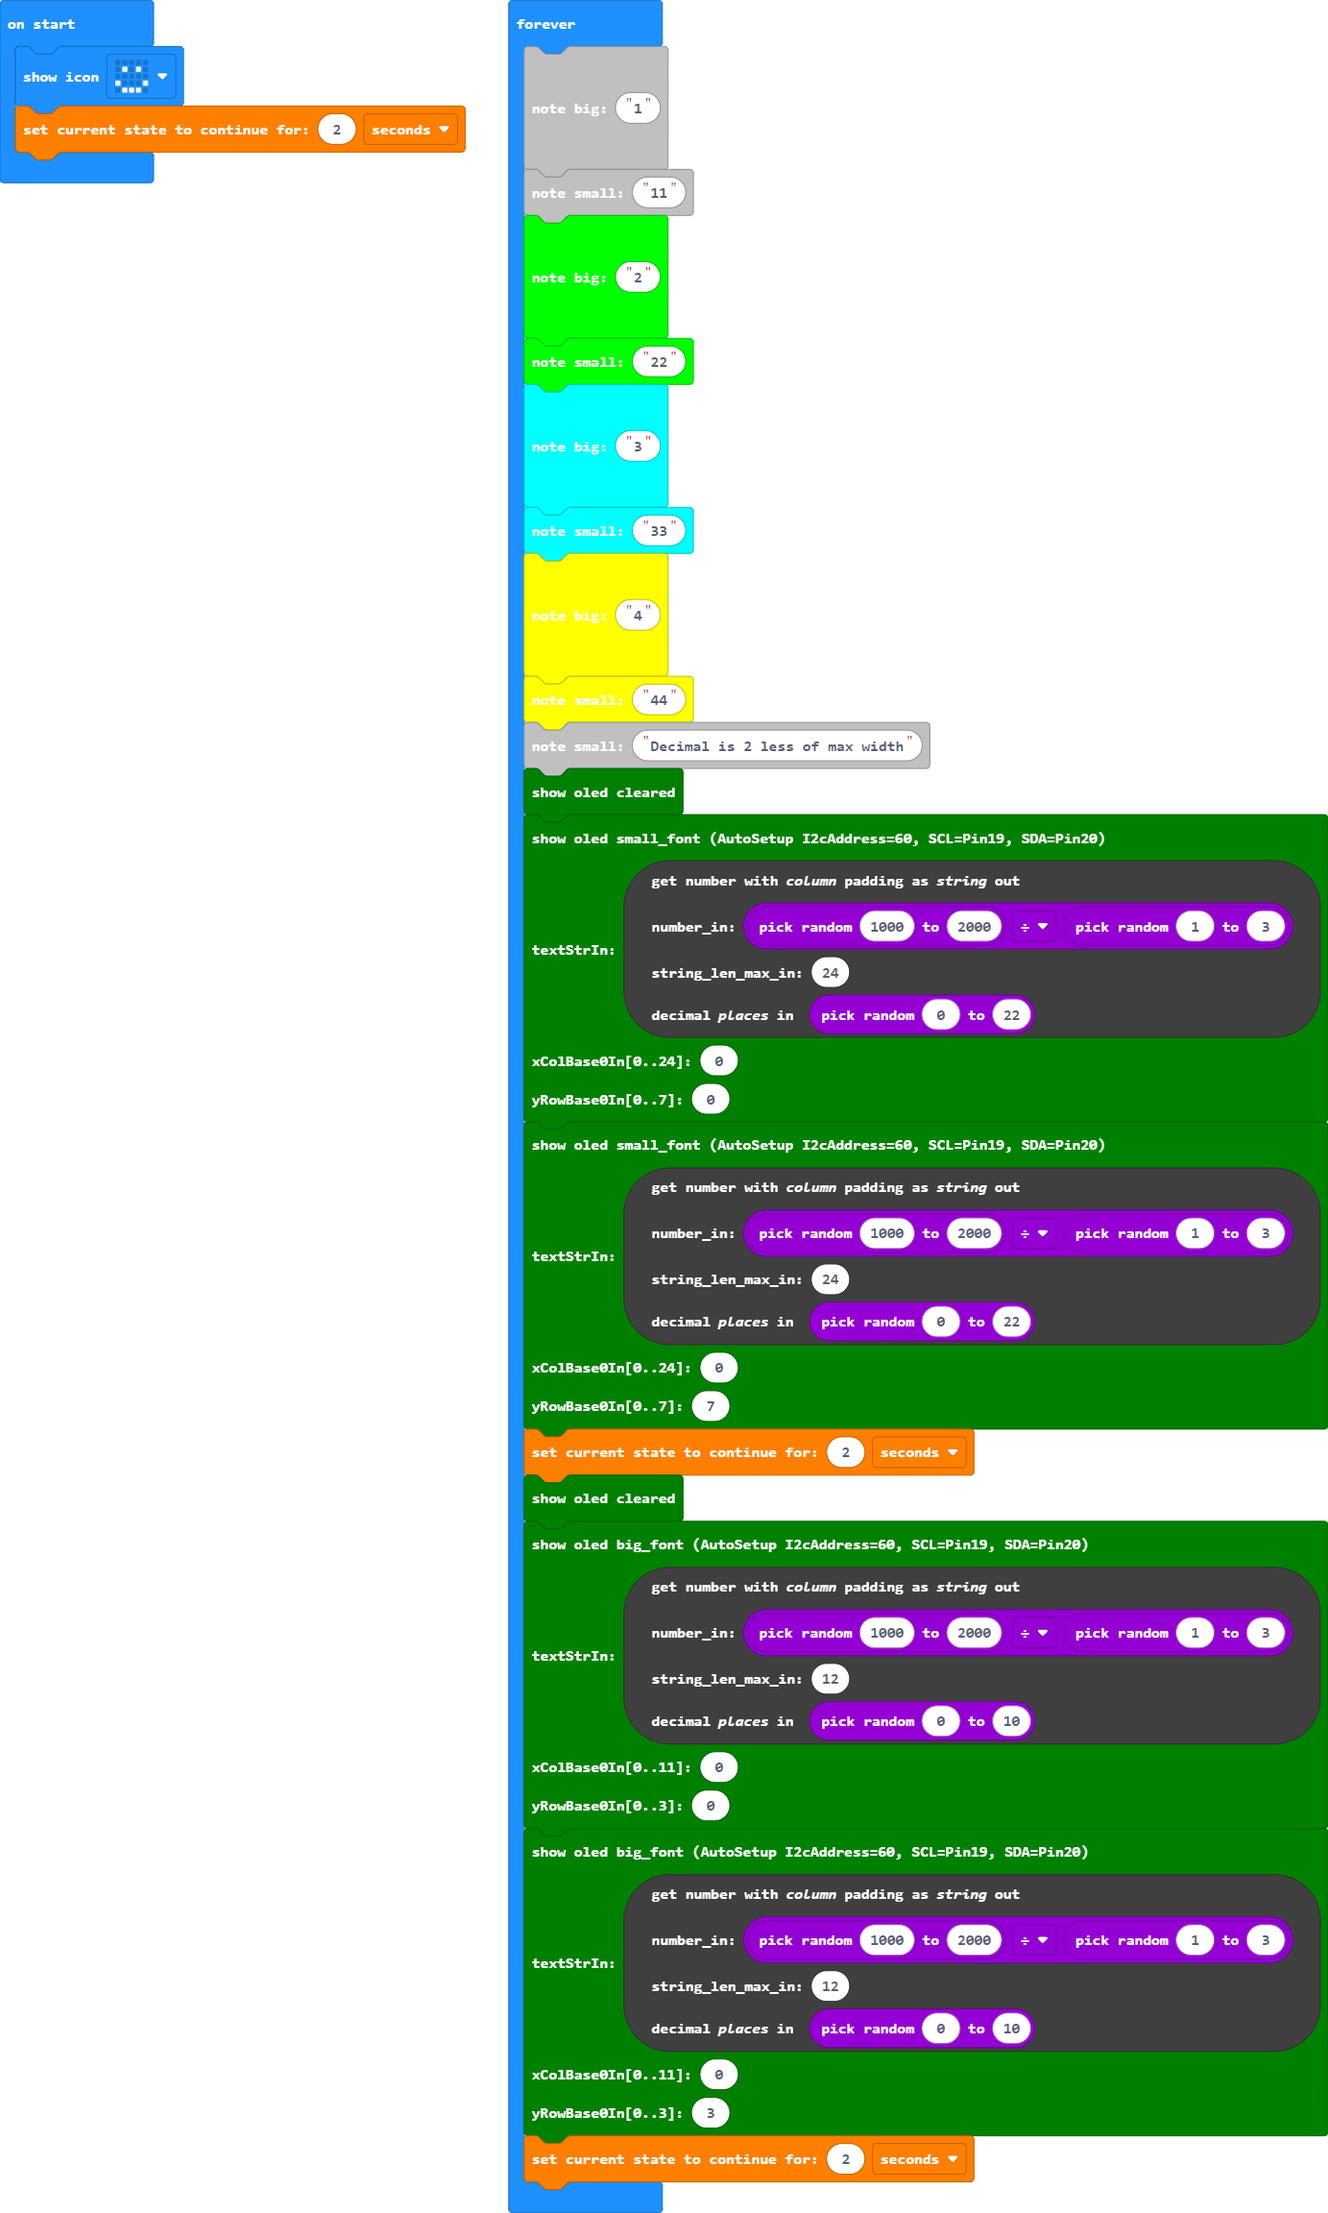
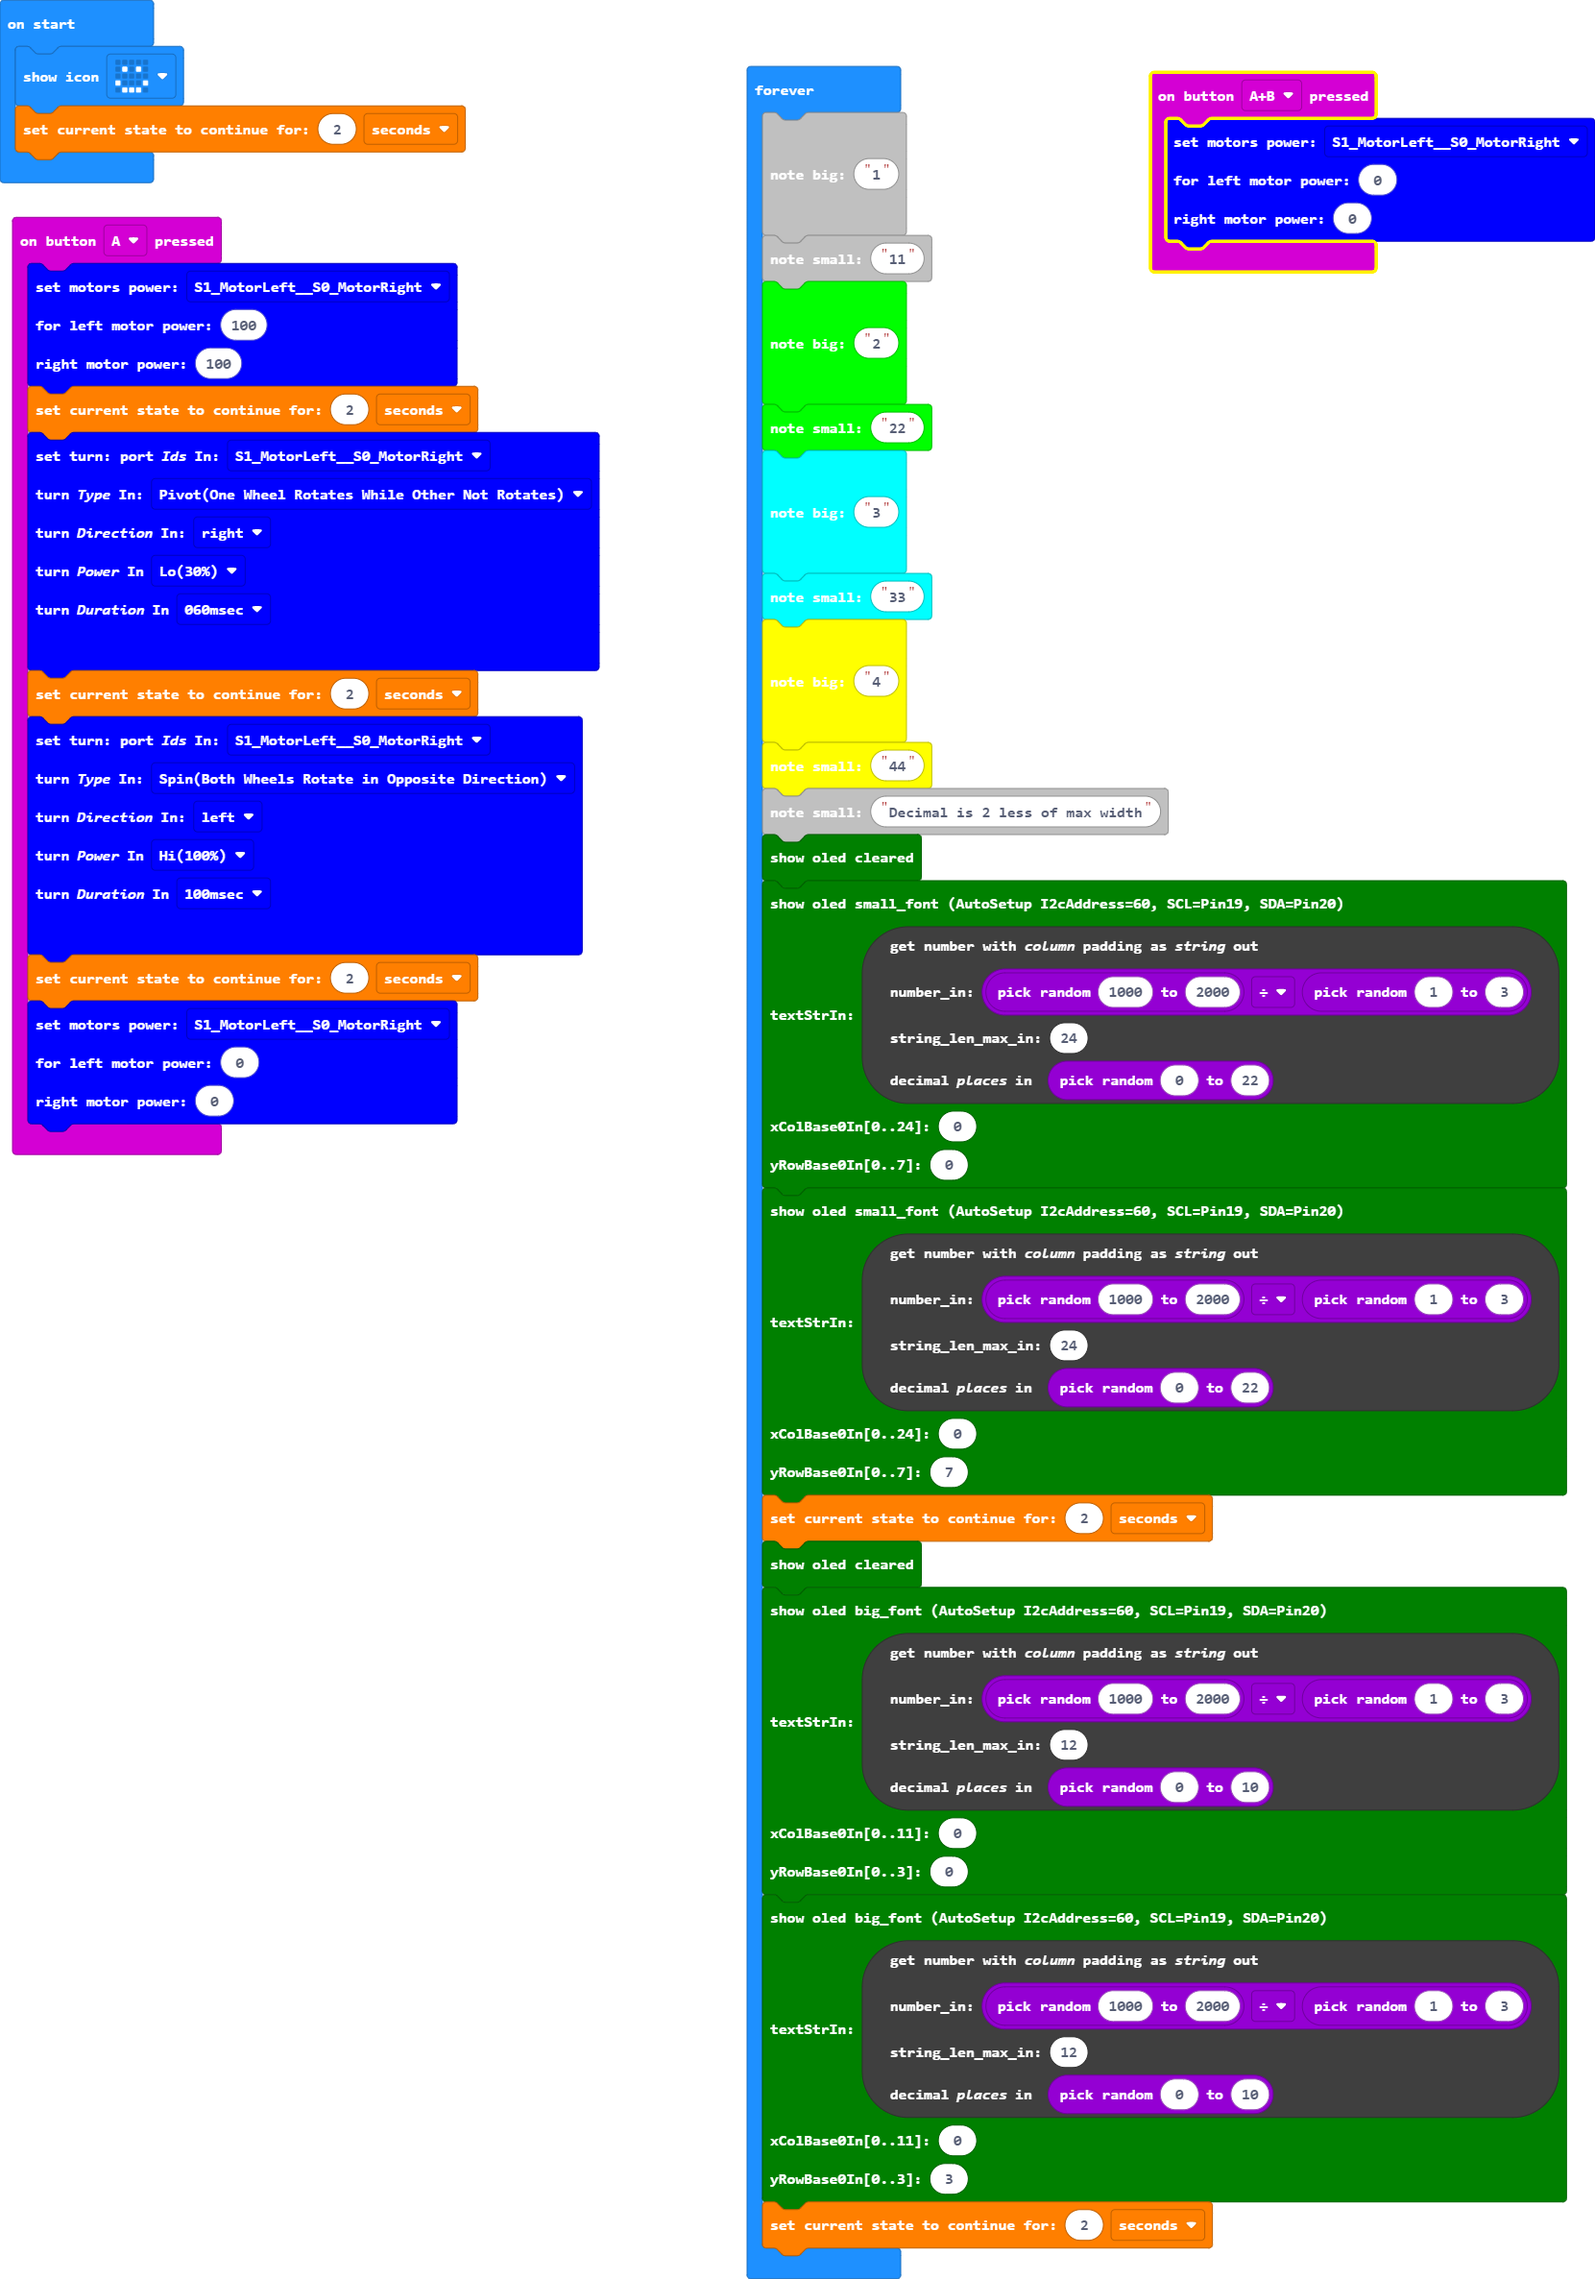
23-0226-0030 Fixes

diff --git a/main.ts b/main.ts
@@ -1,3 +1,39 @@
+input.onButtonPressed(Button.A, function () {
+    quest_Hardware.rq_Set_PowerMotorsViaBlueRedBlackPins_Fn(
+    rq_PortGroup_BlueRedBlack_PortIds_Enum.S1_MotorLeft__S0_MotorRight,
+    100,
+    100
+    )
+    quest_Timer.rq_Set_ContinueCurrentState_CountdownTimer_Fn(2, rq_Time_Units_Enum.Seconds)
+    quest_Hardware.rq_Set_Turn_Fn(
+    rq_PortGroup_BlueRedBlack_PortIds_Enum.S1_MotorLeft__S0_MotorRight,
+    turn_Type_Enum.Pivot,
+    turn_Direction_Enum.right,
+    turn_Power_Enum.Lo,
+    turn_Duration_Small_Enum.msec_060
+    )
+    quest_Timer.rq_Set_ContinueCurrentState_CountdownTimer_Fn(2, rq_Time_Units_Enum.Seconds)
+    quest_Hardware.rq_Set_Turn_Fn(
+    rq_PortGroup_BlueRedBlack_PortIds_Enum.S1_MotorLeft__S0_MotorRight,
+    turn_Type_Enum.Spin,
+    turn_Direction_Enum.left,
+    turn_Power_Enum.Hi,
+    turn_Duration_Small_Enum.msec_100
+    )
+    quest_Timer.rq_Set_ContinueCurrentState_CountdownTimer_Fn(2, rq_Time_Units_Enum.Seconds)
+    quest_Hardware.rq_Set_PowerMotorsViaBlueRedBlackPins_Fn(
+    rq_PortGroup_BlueRedBlack_PortIds_Enum.S1_MotorLeft__S0_MotorRight,
+    0,
+    0
+    )
+})
+input.onButtonPressed(Button.AB, function () {
+    quest_Hardware.rq_Set_PowerMotorsViaBlueRedBlackPins_Fn(
+    rq_PortGroup_BlueRedBlack_PortIds_Enum.S1_MotorLeft__S0_MotorRight,
+    0,
+    0
+    )
+})
 basic.showIcon(IconNames.Happy)
 quest_Timer.rq_Set_ContinueCurrentState_CountdownTimer_Fn(2, rq_Time_Units_Enum.Seconds)
 basic.forever(function () {

diff --git a/custom.ts b/custom.ts
@@ -636,15 +636,14 @@ namespace quest_Hardware {
 
     /**
      * rq_Set_Turn_Fn
-     * @param portIdsIn rq_PortGroup_BlueRedBlack_PortIds_Enum
-     * @param turnTypeIn rq_Turn_Type_Enum
-     * @param turnTypeIn rq_Turn_Type_Enum
-     * @param turnDurationIn rq_Turn_Duration_Small_Enum
+     * @param port_Ids_In rq_PortGroup_BlueRedBlack_PortIds_Enum
+     * @param turn_Type_In rq_Turn_Type_Enum
+     * @param turn_Direction_In turn_Direction_Enum
+     * @param turn_Power_In turn_Power_Enum
+     * @param turn_Duration_In turn_Duration_Small_Enum
      */
-    //% block="set motors power: $portIdsIn|for left motor power: $powerLeftIn|right motor power: $powerRightIn"
-    //% powerLeftIn.min=-100 powerLeftIn.max=100
-    //% powerRightIn.min=-100 powerRightIn.max=100
-    //% weight=80 blockGap=8
+    //% block="set turn: port_Ids_In: $port_Ids_In|turn_Type_In: $turn_Type_In|turn_Direction_In: $turn_Direction_In|turn_Power_In $turn_Power_In|turn_Duration_In $turn_Duration_In "
+    //% weight=78 blockGap=8
     //% inlineInputMode=external
     export function rq_Set_Turn_Fn(port_Ids_In: rq_PortGroup_BlueRedBlack_PortIds_Enum, turn_Type_In: turn_Type_Enum, turn_Direction_In: turn_Direction_Enum, turn_Power_In: turn_Power_Enum, turn_Duration_In: turn_Duration_Small_Enum): void {
         
